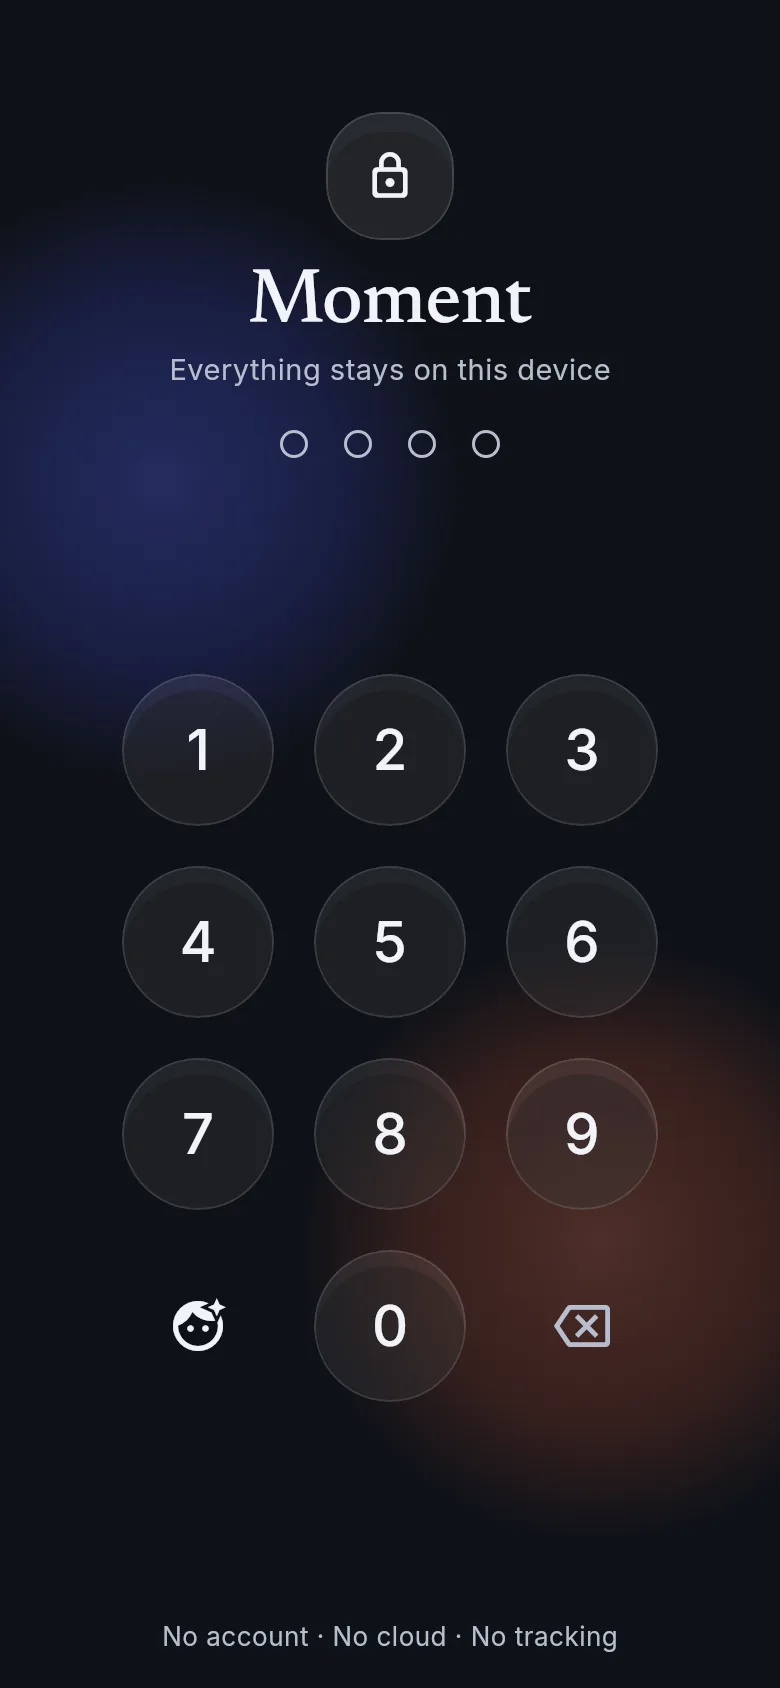
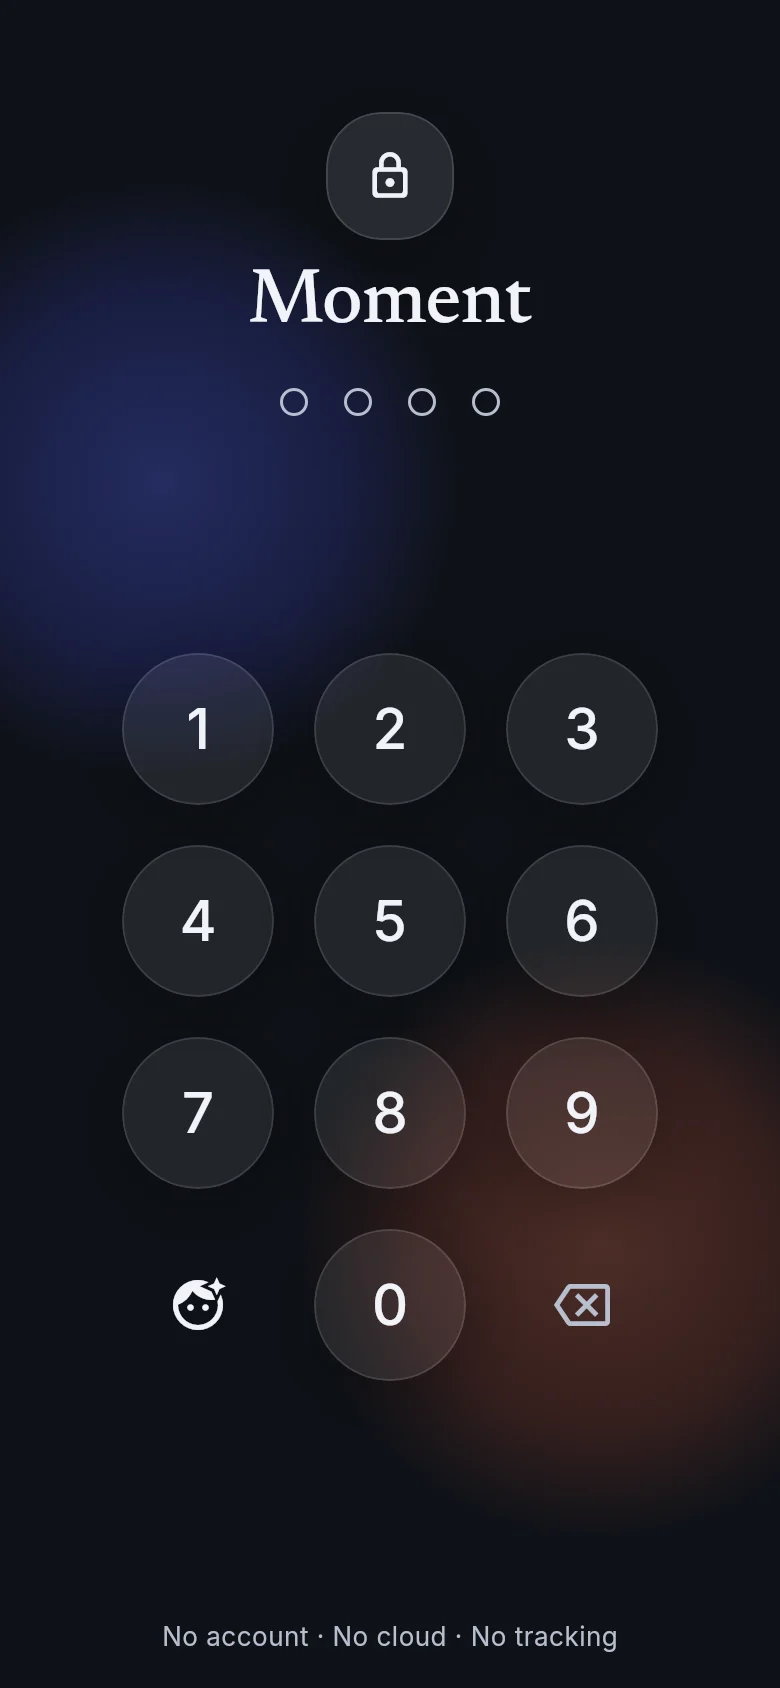
chore(release): 1.0.0-rc.1
Version 1.0.0-rc.1+10. The changelog entry for the release candidate; a
privacy policy page on the site (linked from its footer) and store text
with screenshots in docs/store/; the site's screens re-rendered with
the corrected glass and real shadows; README, roadmap, working
agreement and CLAUDE.md brought up to Phase 5.

Claude-Session: https://claude.ai/code/session_017pufTS3eaQUT1AXnPxFtZT

diff --git a/site/index.html b/site/index.html
@@ -198,7 +198,7 @@
           </a>
           <a class="button quiet" href="https://github.com/saranmahadev/Moment">View the source</a>
         </div>
-        <p class="fine">Version 0.6.0, a preview on the way to 1.0. Android APK today; iOS builds from source.</p>
+        <p class="fine">Version 1.0.0-rc.1, the release candidate for 1.0. Android APK today; iOS builds from source.</p>
       </div>
       <div class="phones" aria-hidden="true">
         <div class="phone back">
@@ -383,7 +383,7 @@ flutter run</code></pre>
         <div class="phase glass"><b>0.4</b><span>Calendar, Search, Settings, dark theme.</span><i class="state done">Done</i></div>
         <div class="phase glass"><b>0.5</b><span>Streaks.</span><i class="state done">Done</i></div>
         <div class="phase glass"><b>0.6</b><span>Home screen widget (Android).</span><i class="state done">Done</i></div>
-        <div class="phase glass"><b>1.0</b><span>Polish, hardening and signed releases.</span><i class="state next">Next</i></div>
+        <div class="phase glass"><b>1.0</b><span>Polish, hardening and signed releases.</span><i class="state next">Release candidate</i></div>
       </div>
       <div class="actions" style="margin-top: 22px">
         <a class="button quiet" href="https://github.com/saranmahadev/Moment/blob/main/CONTRIBUTING.md">How to contribute</a>
@@ -399,6 +399,7 @@ flutter run</code></pre>
     <span>Moment is free software under the <a href="https://github.com/saranmahadev/Moment/blob/main/LICENSE">GPL-3.0</a> licence.</span>
     <span>Typefaces: Inter and Newsreader, SIL Open Font License.</span>
     <span>Place names, when turned on, © OpenStreetMap contributors.</span>
+    <span><a href="privacy.html">Privacy policy</a></span>
   </div>
 </footer>
 

diff --git a/lib/app/app_info.dart b/lib/app/app_info.dart
@@ -1,3 +1,3 @@
 /// The app's version, as shown in Settings and sent as the app's name when
 /// a place name is looked up. A test keeps it equal to `pubspec.yaml`.
-const appVersion = '0.6.0';
+const appVersion = '1.0.0-rc.1';

diff --git a/CLAUDE.md b/CLAUDE.md
@@ -17,7 +17,7 @@ Releases: Phase 1 = 0.1.0 (Foundation, Text and Emoji), 2 = 0.2.0 (Photo, Audio,
 
 ## State
 
-Phases 1 to 4 are released (`v0.3.0` and `v0.4.0` are published with their APKs; the owner decided not to tag 0.1.0 and 0.2.0 after the fact). 0.5.0 added Streaks (see the Streaks decisions) and 0.6.0 the Android home screen widget (see the Widget decisions); Phase 5 (1.0.0) is still ahead. Every screen in the mockups exists, in light and dark. `CHANGELOG.md` has the detail per release. Next is Phase 5 (polish and hardening, 1.0.0) in `docs/ROADMAP.md`; the owner wants the release signing key and other production setup done at the end of it. CI pins Flutter 3.47.9; develop and verify on that version. First time setup is in `README.md` (`flutter create` for platform folders, then `build_runner`).
+Phases 1 to 4 are released (`v0.3.0` and `v0.4.0` are published with their APKs; the owner decided not to tag 0.1.0 and 0.2.0 after the fact). 0.5.0 added Streaks (see the Streaks decisions) and 0.6.0 the Android home screen widget (see the Widget decisions). Phase 5 is built and released as `1.0.0-rc.1` (a pre-release; see the Phase 5 decisions); 1.0.0 follows the owner's sign-off on their phones. Every screen in the mockups exists, in light and dark. `CHANGELOG.md` has the detail per release. Next is the owner's release-candidate check, then 1.0.0. The release signing key (`bash tool/make_release_key.sh`, then the four GitHub secrets) is the owner's to make; until then releases are signed with a throwaway key. CI pins Flutter 3.47.9; develop and verify on that version. First time setup is in `README.md` (`flutter create` for platform folders, then `build_runner`).
 
 Tags are never pushed by hand: the **Release** workflow (`.github/workflows/release.yml`, run with a version and optionally a commit) checks, builds, tags and publishes the APK in one go. See `docs/WORKFLOW.md`, "Releases".
 
@@ -134,6 +134,18 @@ Screens in Phase 1: Lock, Home, Add, Library, New text, New emoji, Text section,
 - Seams: `WidgetBridge` (`DeviceWidgetBridge` is the `app.moment/widget` method channel to `MainActivity`; `FakeWidgetBridge` in tests), `DeepLinkInbox` and `WidgetLinkChannel` for taps. Links are `moment://add/<type>` and `moment://streaks`, carried as an intent extra (not a data URI, so Flutter's own deep link handling is never triggered). They wait in the inbox until `AppShell` exists, so a locked app unlocks first.
 - The widget draws solid colours copied from the tokens into `res/values` and `values-night`; it cannot blur. Taps only open the app; a widget never writes a log.
 - The Kotlin model has a JVM test (`WidgetModelTest`, run by the Release check workflow with `./gradlew :app:testDebugUnitTest`). The native layouts have no golden test; check them on a device.
+
+## Phase 5 decisions (owner-approved plan, 1.0.0)
+
+- Android only for 1.0; GitHub Releases; store text in `docs/store/` (with screenshots from the preview renderer) and a privacy policy at `site/privacy.html` for later stores.
+- Upgrades: `test/upgrade/upgrade_matrix_test.dart` opens a database, backup and settings file made by each released version's own code (`tool/fixtures/make_fixtures.sh` builds them in worktrees; add a row per release). Schema 6 adds two feed indexes (`log_feed_order`, `log_type_feed_order`), made like the search index, not Drift tables.
+- App lock: `AppLockController.load()` at launch and `pinIsSet` (sync) drive `LockGate`; setting or clearing the PIN takes effect at once. After 4 wrong PINs each try waits 30 s doubling to 15 min (in memory). `ScreenPrivacy` hides the Recents preview while a PIN is set (`MainActivity`: `setRecentsScreenshotEnabled(false)` on Android 13+, `FLAG_SECURE` below, remembered in SharedPreferences for recreated activities).
+- The journal opens through `JournalOpener`: a key is only made when there is no journal file. A missing key or one that does not open the file (SQLITE_NOTADB) shows `JournalProblemScreen` (restore a backup, or start empty after a second confirmation); the old file is moved aside as `moment-unopened-<stamp>.db`, never deleted. `tidyAtLaunch` runs the 30-day Trash purge.
+- Diagnostics: `DiagnosticsLog.shared` (300 entries, `diagnostics.jsonl` in the support dir). Errors keep only their type and the `package:moment` frames they passed through, never the message (it can quote journal text); events are fixed names with a version or a number. `main` sends Flutter and platform errors to it; a failed launch shows `DiagnosticsScreen` with an explanation. Nothing is sent anywhere.
+- Scale: Home reads `watchFeed(limit:)` pages of 60, Library `watchTypeSummaries()`, Calendar `watchFeedBetween()` for its six weeks; photo and video grids are slivers; `VideoPoster.decodeWidth` for tiles. A screen should never hold a stream of every log just to count or show a few. Tests that seed many rows do it in `tester.runAsync` and close the database the same way after `pump(Duration(milliseconds: 1))`.
+- Glass: `GlassSurface` paints its shadow outside the shape only (`_OuterShadowPainter`); a shadow under a translucent fill shows through. Goldens and previews draw real (blurred) shadows by setting `debugDisableShadows = false` inside the test body and back in a `finally`.
+- Fidelity choices: plural section names (`momentSectionTitleFor`), Library cards about 150 pt, month headings in grids, the Emoji week strip, Audio rows, `CaptureFrame` for New photo and New video. Kept out on purpose: the Newest first pill (the order is in the Library card filter), the Lock subtitle and Photo detail chips (removed earlier), and the New text formatting toolbar (needs rich text; the owner's call).
+- Releases: `tool/release_check.dart` (permissions exactly `expectedPermissions`, backup off, `libsqlite3mc.so` with its cipher in every APK, signing, version, size budgets) runs in the Release workflow, which also takes `X.Y.Z-rc.N` and publishes it as a pre-release. The Frame budget workflow measures scrolling on an emulator; `test_driver/frame_budget.json` holds the limits.
 
 ## Logo, site, film and open-source files (before Phase 5)
 

diff --git a/README.md b/README.md
@@ -39,7 +39,7 @@ Moment is a life journal for your phone. It keeps what you write, feel, see, hea
 
 Everything stays on the device, in an encrypted database. There is nothing to sign up for.
 
-> **Status:** version 0.6.0, a preview on the way to 1.0. Every screen exists and the app is usable day to day, but it has had little testing on real phones yet. See [Status and roadmap](#status-and-roadmap).
+> **Status:** version 1.0.0-rc.1, the release candidate for 1.0. Every screen exists and the app is usable day to day; 1.0.0 follows once the candidate has been tried on real phones. See [Status and roadmap](#status-and-roadmap).
 
 ## Screens
 
@@ -67,10 +67,12 @@ More on the [website](https://saranmahadev.github.io/Moment/#screens). These are
 - **Calendar**: a month at a glance with a dot per kind on each day. Days are the ones logs were made on, so travel and daylight saving move nothing.
 - **Widget** (Android): your streak and a button for each log type on the home screen. It never opens the journal; you choose whether it shows the streak at all.
 - **Streaks**: days in a row, a heatmap of your year and milestones, with grace days you set. Worked out on the phone from your logs; nothing extra is stored or sent.
-- **Search**: full-text search as you type across everything you have written, named or captioned, on the device (SQLite FTS5). Fast at 20,000 logs.
+- **Search**: full-text search as you type across everything you have written, named or captioned, on the device (SQLite FTS5).
+- **Built for years of logs**: tested with 20,000 logs, which open, scroll, search, back up and restore without slowing down.
 - **Encrypted backup**: one passphrase-protected `.moment` file holds every log and media file. Restore is all or nothing.
 - **Export** to Markdown, JSON and the original files, for the kinds you choose.
-- **App lock**: a PIN, with Face ID or fingerprint.
+- **App lock**: a PIN, with Face ID or fingerprint. Wrong PINs slow guessing down, and while the lock is on the app switcher shows no preview of the journal.
+- **Diagnostics**: a short log of errors kept on the phone (never what you wrote), for you to read or share yourself.
 - **Trash**: deleted logs wait 30 days, then go for good, files included.
 - **Light and dark** themes, and **Reduce Transparency** for solid surfaces.
 - **Accessible**: every control is labelled for screen readers, tap targets are at least 44 pt, and text fits at 200% size.
@@ -89,6 +91,9 @@ This is checked, not just claimed:
 - `test/location/network_boundary_test.dart` keeps network code to one file, one address, over HTTPS, and keeps HTTP and geocoding packages out of the dependencies.
 - `tool/check_manifest.dart` lists every permission the Android release build asks for and fails CI on ones a private journal never needs (background location, advertising id, contacts, SMS, call log).
 - The **Live check** workflow asks the real place-name service two questions, to confirm the one request the app can send still works.
+- `tool/release_check.dart` runs on every release build: permissions exactly as listed, Android backup off, the encrypted SQLite inside each APK, the signing key, the version and the sizes.
+
+The [privacy policy](https://saranmahadev.github.io/Moment/privacy.html) says the same in plain words.
 
 Found a security or privacy problem? Please see [SECURITY.md](SECURITY.md).
 
@@ -155,7 +160,7 @@ flutter test --run-skipped --tags preview test/gate/previews_test.dart
 | `test/` | Tests, mirroring `lib/`; `test/gate/` holds the every-screen checks |
 | `design/` | Mockups, the logo and the film, with the scripts that build them |
 | `site/` | The project website, published to GitHub Pages |
-| `docs/` | Roadmap and working agreement |
+| `docs/` | Roadmap, working agreement and store text (`docs/store/`) |
 
 ### Releasing
 
@@ -171,7 +176,7 @@ Run the **Release** workflow (Actions → Release → Run workflow) with the ver
 | 0.4 | Calendar, Search, Settings, dark theme | Released |
 | 0.5 | Streaks | Released |
 | 0.6 | Home screen widget (Android) | Released |
-| 1.0 | Polish, hardening, signed releases | Next |
+| 1.0 | Polish, hardening, signed releases | Release candidate |
 
 The plan for each phase, with its tests and exit gate, is in [docs/ROADMAP.md](docs/ROADMAP.md).
 

diff --git a/docs/ROADMAP.md b/docs/ROADMAP.md
@@ -160,7 +160,7 @@ No new screens. Phase 5 makes everything built so far match the mockups exactly,
 
 - Fidelity pass: every screen compared to its artboard for spacing, type, colour, glass edge and shadow, with goldens tightened to a strict tolerance.
 - Performance: scrolling stays smooth on a mid-range Android phone and an older iPhone. Real blur stays on floating surfaces only; feed cards use the cheaper translucent treatment.
-- Security checks: the database is unreadable without the key, no network permission in the release build, backups excluded from iCloud and Google auto-backup, app-switcher preview hidden when locked.
+- Security checks: the database is unreadable without the key, the internet permission only for the opt-in place names (owner-approved in 0.3.0), backups excluded from iCloud and Google auto-backup, app-switcher preview hidden when locked.
 - Scale: a library of 20,000 logs with thousands of photos opens fast and scrolls without jank.
 - Upgrade path: databases from 0.1.0, 0.2.0, 0.3.0 and 0.4.0 all open correctly in 1.0.0.
 - Local diagnostics log with no crash reporting service, so nothing leaves the phone.
@@ -179,6 +179,20 @@ No new screens. Phase 5 makes everything built so far match the mockups exactly,
 - The owner signs off a release candidate on their own devices.
 - 1.0.0 is tagged and released with everything shown in the mockups.
 
+**How it was done (1.0.0-rc.1)**
+
+The owner chose the plan's recommended options: Android only for 1.0, published on GitHub Releases (store text ready in `docs/store/`), the app switcher preview hidden while the lock is on, the phone's own camera with the screens restyled, local diagnostics, and a lost-key screen that never deletes. In order, each a branch:
+
+1. Upgrade matrix: fixtures made by every released version's own code (`tool/fixtures/make_fixtures.sh`), opened by `test/upgrade/`.
+2. Security: live PIN state (a real bug: turning the lock off needed a restart), slower guessing, the hidden preview (`ScreenPrivacy`), `JournalOpener` and the lost-key screen, and Trash's 30-day purge actually running.
+3. Diagnostics: `DiagnosticsLog`, Settings → Diagnostics.
+4. Scale: a paged feed, a date-window feed, counts by type, feed indexes (schema 6), lazy grids, small posters; a 20,000-log round trip test.
+5. Frame budget: `integration_test/frame_budget_test.dart` on an emulator (Frame budget workflow).
+6. Fidelity: the glass shadow fix (the biggest difference on every screen), then the screen-by-screen differences; see the review page and `CHANGELOG.md`.
+7. Release check (`tool/release_check.dart`) and release candidates in the Release workflow.
+
+Left as the owner's call: the New text formatting toolbar and "Draft saved" of the mockup (they need rich text throughout); the mockup's "Newest first" pill (replaced earlier by the order in each Library card's filter); the notes removed earlier on purpose (Lock subtitle, Photo detail chips).
+
 ## Screen coverage
 
 | Phase | Release | New screens | Finished here |
@@ -194,9 +208,9 @@ Total: 13 + 6 + 6 + 2 = 27 screens, all in 1.0.0.
 ## Open decisions (defaults used until the owner says otherwise)
 
 - Releases: Android APK; iPhone via TestFlight needs an Apple Developer account.
-- Map: keep the stylised placeholder; a real offline map is not in 1.0.
+- Map: an offline Natural Earth map in the Location screens (owner-approved after 0.4.1); the Location section keeps the stylised tile.
 - First-run backup explainer: not in the mockups; not built unless approved.
-- Outside 1.0: home-screen widget, lock-screen shortcut, on-device transcription, import from other apps, any kind of sync.
+- Outside 1.0: iOS releases and the iOS widget, lock-screen shortcut, on-device transcription, import from other apps, any kind of sync. (The Android home screen widget shipped in 0.6.0.)
 - Dark mode: designed at the start of Phase 4.
 - Minimum OS: iOS 16 and Android 8 (API 26).
 - Security: app lock is a screen gate with the database key in Keychain or Keystore; media protected by app-private storage in 1.0.

diff --git a/CHANGELOG.md b/CHANGELOG.md
@@ -1,5 +1,53 @@
 # Changelog
 
+## 1.0.0-rc.1 — Release candidate for 1.0
+
+Phase 5: no new kinds of log, but everything made sturdier, faster and
+closer to the mockups, ready for 1.0 once it has been tried on phones.
+
+- **Looks like the mockups.** Glass cards no longer look doubled: their
+  shadow fell under the see-through card and showed through everywhere
+  but a band along the top; it now falls outside, as designed. Photos,
+  Videos and Locations are named in the plural, Library cards are the
+  mockup's size, photo and video grids are headed by month, the Emoji
+  section opens with This week, Audio is a list of recordings with their
+  waveforms, and New photo and New video show a viewfinder frame and
+  shutter (they still use the phone's own camera). Trash's Back button is
+  round again.
+- **Years of logs.** Home loads its feed a page at a time, Library counts
+  each kind without reading every log, Calendar reads only the weeks it
+  shows, and grids build only the rows on screen. Video posters in grids
+  are decoded small. Tested with 20,000 logs, including a full back up
+  and restore.
+- **App lock.** Turning the lock on or off now takes effect at once:
+  before, turning it off could leave a Lock screen with no PIN to unlock
+  it until the app was restarted. After four wrong PINs each further try
+  waits, from 30 seconds up to 15 minutes. While the lock is on, the app
+  switcher shows no preview of the journal (on Android 12 and older this
+  also blocks screenshots).
+- **A lost key no longer strands you.** If the phone's secure storage
+  loses the journal's key, Moment says so and offers to restore a backup
+  or start an empty journal (after a second confirmation). The journal
+  that cannot be opened is kept, never deleted.
+- **Trash empties itself** of logs older than 30 days, files included, as
+  it always said it would: that clean-up never actually ran before.
+- **Diagnostics** (Settings → Diagnostics): a short log of errors and app
+  events kept on the phone, never what you wrote, for you to read, copy
+  or share. If Moment cannot start, it shows this instead of a blank
+  screen.
+- Every earlier version's database, backup and settings are tested to
+  open in this one.
+- Releases are checked before they are published: permissions exactly as
+  listed, Android backup off, the encrypted SQLite inside every APK, the
+  signing key, the version and the sizes.
+- A privacy policy page on the site, and store text ready for when Moment
+  is listed in a store.
+
+Known limits: if no release key has been set up yet, this candidate is
+signed with a throwaway key, so it does not install over 0.6.0: back up
+in the app, uninstall, install, restore. The frame-rate check runs on an
+emulator in CI; how scrolling feels is for a real phone to say.
+
 ## 0.6.0 — Home screen widget (Android)
 
 - **Widget: Streak and Quick add.** One home screen widget with your

diff --git a/docs/WORKFLOW.md b/docs/WORKFLOW.md
@@ -37,6 +37,9 @@ Before a chunk merges into `main`:
 - `CHANGELOG.md` gets one entry per release.
 - Tags are made by the **Release** workflow (`.github/workflows/release.yml`), never by hand: Actions → Release → Run workflow, with the version (and the commit, when it is not the head of `main`). In one run it checks the version against `pubspec.yaml` and the changelog, analyses, tests, builds the release APKs (one per CPU type, and a common one that works on every phone but is about three times larger), checks the permissions of the release manifest, creates the annotated tag and publishes a GitHub Release with all of them attached: `moment-X.Y.Z-arm64-v8a.apk` (nearly every phone), `-armeabi-v7a` (old 32-bit phones), `-x86_64` (emulators) and `moment-X.Y.Z.apk` (common). If any step fails, nothing is tagged.
 - Releasing an older commit (not the head of `main`): GitHub does not let a workflow tag a commit whose workflow files differ from `main`'s. Push that tag by hand (`git tag -a v0.1.0 <commit> -m "Moment 0.1.0" && git push origin v0.1.0`), then run the Release workflow with the same version and commit: it sees the tag, and builds and publishes the release for it.
+- A release candidate is released the same way with a version like `1.0.0-rc.1` (in `pubspec.yaml` as `1.0.0-rc.1+N`, in `lib/app/app_info.dart` and as a `## 1.0.0-rc.1` changelog entry). It is published as a GitHub pre-release, so the site's "latest release" link keeps pointing at the last final one.
+- Before tagging, the Release workflow runs `tool/release_check.dart` on the signed APKs: the permissions are exactly `expectedPermissions` (a new one needs adding there, with its reason), Android backup is off in every domain, each APK carries the encrypted SQLite and no plain one, the version agrees everywhere, and each APK is inside its size budget. A final release signed with the debug key fails; a candidate only warns.
+- The **Frame budget** workflow scrolls the app with 20,000 logs on an Android emulator and checks frame build times against `test_driver/frame_budget.json`. It runs when the check itself changes, weekly on `main`, and by hand; run it before a release.
 - `release-check.yml` builds the same APKs without releasing them; it runs automatically when dependencies or the `android/` project change.
 
 ### Signing the APK
